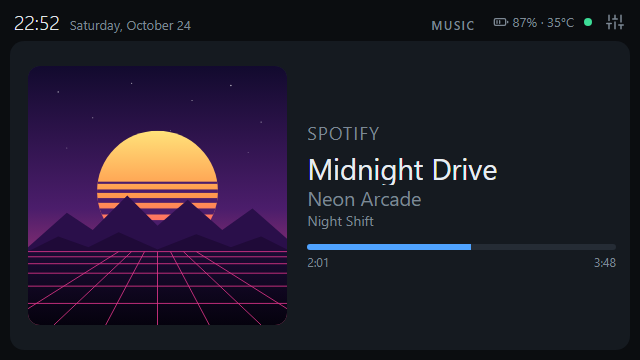
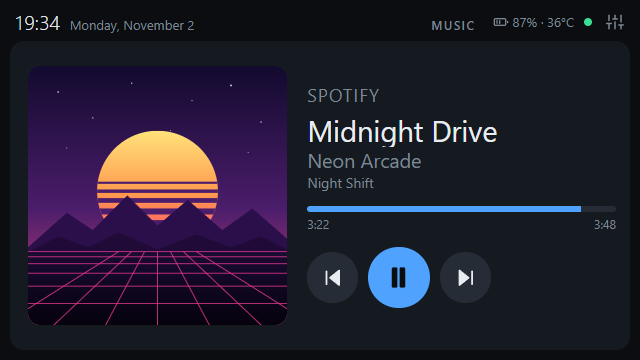
Old-phone pass on a Galaxy J5 Prime, new screenshots, Gemini check
- Every screen tried on a Galaxy J5 Prime (Android 8, Samsung Internet 7.2,
  a Chromium 59 engine) over USB, portrait and landscape: Hardware, AI, PC,
  Music with its buttons, Photos, Game, the scrolling message and settings.
- Fixed: on a short screen (the browser's own bars, before full screen) the
  Hardware cards' temperatures ran over the card titles. The title no longer
  shrinks and the content is centered with auto margins, so what doesn't fit
  is cut at the bottom instead.
- Gemini CLI counts as installed only when it has chats: a sign-in that
  failed (it no longer serves personal accounts) left its folders and an
  empty card.
- README: new screenshots of every screen and theme (with the history
  charts and music buttons), a Photos screenshot, and a table of where
  SpareScreen has been tried.

diff --git a/sparescreen/web/style.css b/sparescreen/web/style.css
@@ -106,10 +106,12 @@ small { font-size: .5em; color: var(--muted); margin-left: 2px; }
 .hw-grid { display: flex; flex-direction: column; height: 100%; }
 .hw { flex: 1; display: flex; flex-direction: column; margin-top: 10px; }
 .hw:first-child { margin-top: 0; }
-.hw-body { flex: 1; display: flex; align-items: center; min-height: 0; }
-.hw .ring-wrap { width: 17vh; height: 17vh; }
+/* Centered with auto margins, not align-items: when a short screen (a browser's own bars)
+   leaves too little room, the extra goes down and is cut, instead of over the card's title. */
+.hw-body { flex: 1; display: flex; align-items: flex-start; min-height: 0; }
+.hw .ring-wrap { width: 17vh; height: 17vh; margin: auto 0; }
 .hw .ring-label { font-size: 4.2vh; }
-.hw-info { flex: 1; min-width: 0; margin-left: 16px; }
+.hw-info { flex: 1; min-width: 0; margin: auto 0 auto 16px; }
 .temp { font-size: 6vh; font-weight: 300; line-height: 1; font-variant-numeric: tabular-nums; }
 .temp small { font-size: .45em; }
 .temp.na { color: var(--muted); }
@@ -228,6 +230,7 @@ small { font-size: .5em; color: var(--muted); margin-left: 2px; }
 /* Behind a hardware card: usage, faint, in the lower part of the card */
 .hw { position: relative; }
 .hw > h2, .hw > .hw-body { position: relative; }
+.hw > h2 { flex-shrink: 0; }  /* short screens: the content may be cut, never climb over the title */
 .hw-spark { position: absolute; left: 0; right: 0; bottom: 0; height: 45%; width: 100%; }
 .hw-spark .spark-area { opacity: .14; }
 .hw-spark .spark-line { display: none; }  /* a line would cross the text above it */

diff --git a/tests/test_demo.py b/tests/test_demo.py
@@ -26,7 +26,10 @@ class DemoShapeTest(unittest.TestCase):
     def test_ai_tools(self):
         with tempfile.TemporaryDirectory() as home, mock.patch.object(claude, "load_limits", return_value=None):
             os.mkdir(os.path.join(home, "sessions"))
-            os.mkdir(os.path.join(home, "tmp"))
+            chats = os.path.join(home, "tmp", "project", "chats")
+            os.makedirs(chats)
+            with open(os.path.join(chats, "session-1.jsonl"), "w", encoding="utf-8") as f:
+                f.write('{"sessionId": "s1"}\n')
             real = {"claude": claude.ClaudeSource(home=home).read(), "codex": CodexSource(home=home).read(),
                     "gemini": GeminiSource(home=home).read()}
         for name, demo in (("claude", DemoClaude().read()), ("codex", DemoCodex().read()),

diff --git a/sparescreen/gemini.py b/sparescreen/gemini.py
@@ -101,6 +101,10 @@ class GeminiSource:
         if now - self._at >= self.refresh:
             self._scan(now)
             self._at = now
+        if not self._files:
+            # No chats in the last days. Gemini CLI leaves its folders even after a sign-in
+            # that failed (it no longer serves personal accounts): that's not a tool in use.
+            return {"installed": False}
         midnight = datetime.combine(datetime.now().date(), datetime.min.time()).timestamp()
         return {
             "installed": True,

diff --git a/tests/test_gemini.py b/tests/test_gemini.py
@@ -140,6 +140,8 @@ class GeminiSourceTest(unittest.TestCase):
 
     def test_not_installed(self):
         self.assertEqual(GeminiSource(home=self.home / "nowhere").read(), {"installed": False})
+        # Folders left by a sign-in that failed, but no chats: not a tool in use.
+        self.assertEqual(self.source.read(), {"installed": False})
 
     def test_model_labels(self):
         self.assertEqual(model_label("gemini-2.5-flash-lite"), "Gemini 2.5 Flash Lite")

diff --git a/README.md b/README.md
@@ -17,12 +17,13 @@
 
 <p align="center">
   <img src="docs/screenshots/hardware.png" width="32%" alt="Hardware screen: CPU, GPU and RAM usage, temperature and clocks">
-  <img src="docs/screenshots/ai.png" width="32%" alt="AI screen: Claude Code and Codex usage limits and sessions">
+  <img src="docs/screenshots/ai.png" width="32%" alt="AI screen: Claude Code, Codex and Gemini CLI usage limits and sessions">
   <img src="docs/screenshots/pc.png" width="32%" alt="PC screen: app in focus, top apps, fans, network and disks">
 </p>
 <p align="center">
-  <img src="docs/screenshots/music.png" width="32%" alt="Music screen: album cover, title, artist, player and progress">
-  <img src="docs/screenshots/game.png" width="32%" alt="Game screen: game art and icon, play time, GPU, CPU, VRAM and RAM">
+  <img src="docs/screenshots/music.png" width="32%" alt="Music screen: album cover, title, artist, progress and previous, play/pause and next buttons">
+  <img src="docs/screenshots/photos.png" width="32%" alt="Photos screen: a photo from a folder on the PC">
+  <img src="docs/screenshots/game.png" width="32%" alt="Game screen: game art and icon, FPS, play time, GPU, CPU, VRAM and RAM">
 </p>
 
 Turn that old phone in your drawer into a live dashboard for your computer.
@@ -56,6 +57,15 @@ screen, a browser rule).
 
 Runs on Windows, Linux and macOS, with any device that has a browser.
 Free and open source (MIT license). Ideas and next steps in [ROADMAP.md](ROADMAP.md).
+
+### Where it has been tried
+
+| | |
+|---|---|
+| **Windows 11** | Everything, day to day: USB and Wi-Fi, sensors, sleep and hibernation, music buttons, photos, updates from the window. |
+| **Linux** | The executable on Ubuntu 20.04, 22.04 and 24.04, Debian 12 and Fedora 41 (in containers): it starts, pairs a phone over Wi-Fi and updates itself. Sensors, music and sleep not yet tried on a real machine. |
+| **macOS** | Not tried yet: should work, treat it as experimental. |
+| **Phones** | Galaxy A55 (Android 14, Chrome) and Galaxy J5 Prime (Android 8, Samsung Internet 7.2, an engine from 2017), over USB and Wi-Fi. iPhone and iPad not tried yet. |
 
 ## Getting started
 

diff --git a/CHANGELOG.md b/CHANGELOG.md
@@ -12,6 +12,14 @@ The format follows [Keep a Changelog](https://keepachangelog.com/) and versions 
   used only earlier this week shrinks to a line under the cards, and one not used all week
   isn't shown. Before, an installed but unused Codex or Gemini CLI took as much space as
   the Claude Code you were using.
+- Gemini CLI only counts as installed when it has chats: since it stopped serving personal
+  Google accounts, a sign-in that failed left its folders behind and an empty card.
+
+### Fixed
+
+- On a short screen (a browser's own bars on a small phone, before going full screen) the
+  Hardware cards' temperatures ran over the card titles. Tried on a Galaxy J5 Prime
+  (Samsung Internet 7.2), where every screen now shows right.
 
 ### Security
 
